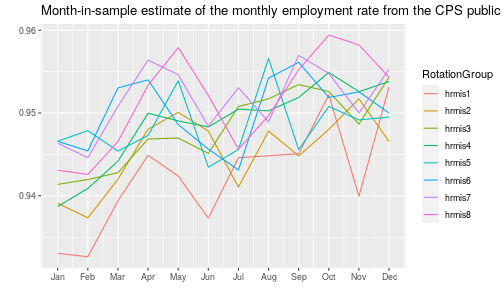
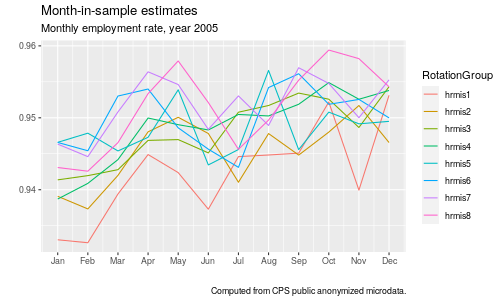
No information

diff --git a/README.tex.md b/README.tex.md
@@ -97,8 +97,10 @@ The following code
 MIS.est<-CompositeRegressionEstimation::WSrg(list.tables,rg = "hrmis",weight="pwsswgt",list.y = "pemlr")
 MIS.emp.rate<-plyr::aaply(MIS.est[,,c("pemlr_n1","pemlr_n2")],1:2,sum)/plyr::aaply(MIS.est[,,c("pemlr_n1","pemlr_n2","pemlr_n3","pemlr_n4")],1:2,sum);names(dimnames(MIS.emp.rate))<-c("Month","RotationGroup")
 library(ggplot2);ggplot(data=reshape2::melt(MIS.emp.rate),aes(x=Month,y=value,color=RotationGroup))+geom_line()+
-  ggtitle("Month-in-sample estimate of the monthly employment rate from the CPS public microdata in 2005")+
-  scale_x_continuous(breaks=200501:200512,labels=month.abb)+xlab("")+ylab("")
+  scale_x_continuous(breaks=200501:200512,labels=month.abb)+xlab("")+ylab("")+ 
+  labs(title = "Month-in-sample estimates", 
+       subtitle = "Monthly employment rate, year 2005", 
+       caption = "Computed from CPS public anonymized microdata.")
 ```
 
 <img src="figure/unnamed-chunk-2-1.png" title="plot of chunk unnamed-chunk-2" alt="plot of chunk unnamed-chunk-2" width="100%" />
